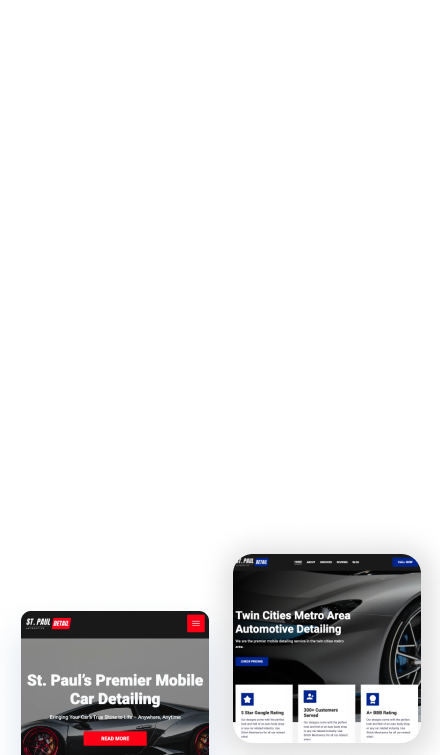
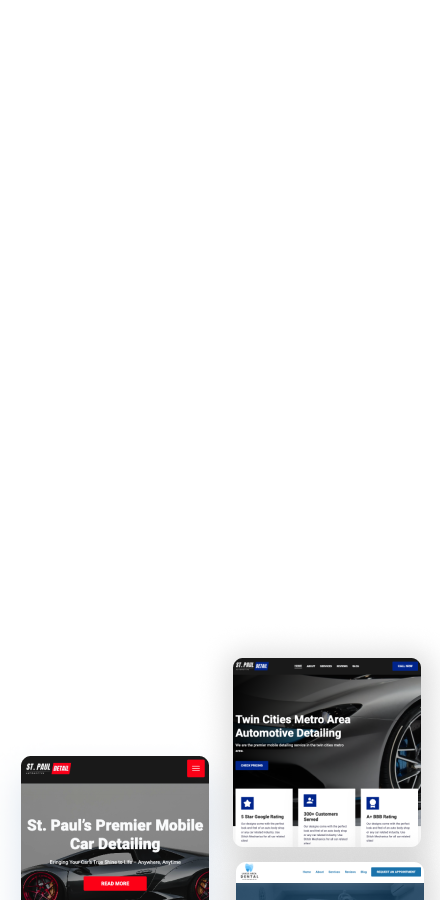
Add additional mobile hero image for responsiveness

Changed region(s): [[0.5318, 0.7311, 0.975, 1.0], [0.0295, 0.7921, 0.4727, 1.0], [0.5318, 0.7311, 0.6205, 0.7616]]

diff --git a/src/index.html b/src/index.html
@@ -91,8 +91,10 @@ eleventyNavigation:
 
     <!-- Background Image -->
     <picture class="cs-background">
-        <source media="(max-width: 600px)" srcset="../assets/images/hero-mobile.png">
-        <source media="(min-width: 601px)" srcset="../assets/images/hero.jpg">
+        <source media="(max-width: 414px)" srcset="../assets/images/hero-mobile.png">
+        <source media="(max-width: 538px)" srcset="../assets/images/hero-mobile-2.png">
+        <source media="(max-width: 777px)" srcset="../assets/images/hero-mobile-3.png">
+        <source media="(min-width: 777px)" srcset="../assets/images/hero.jpg">
         <img loading="lazy" decoding="async" src="../assets/images/hero.jpg" alt="dna strand" width="1920" height="1200" aria-hidden="true">
     </picture>
 </section>
